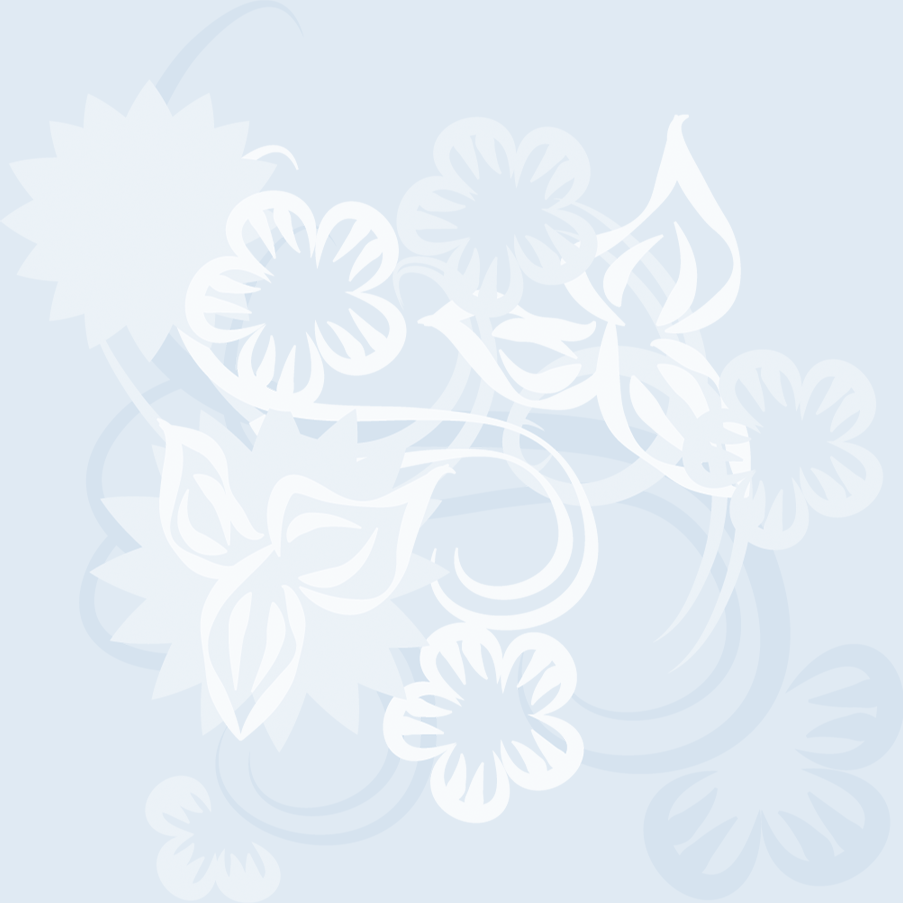
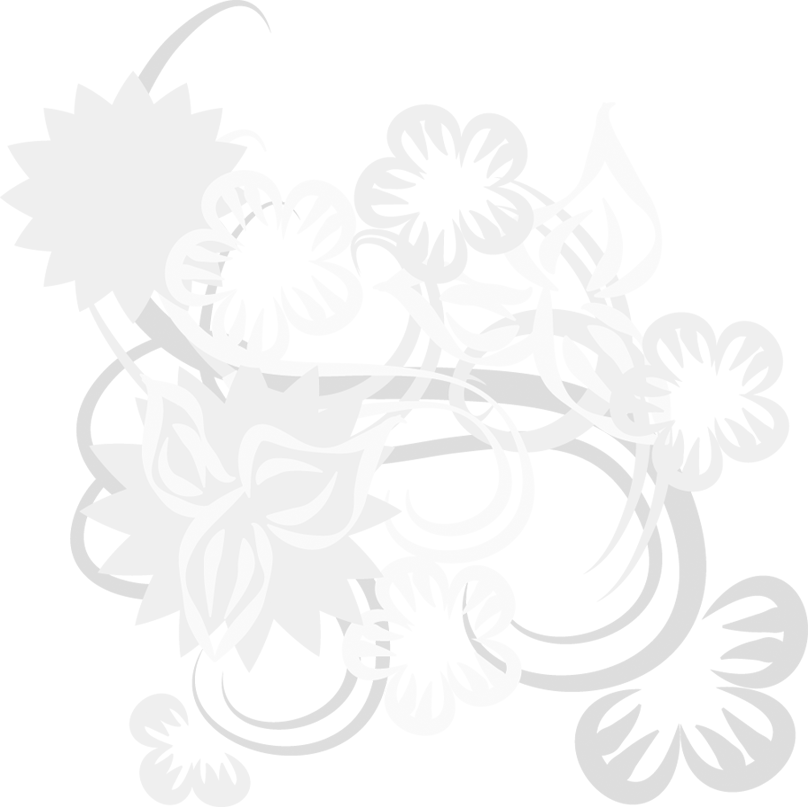
Redesigned the color scheme from one blue to five different colors
- Added new design elements for the new color schemes: grey for the
front page, yellow for activities, green for tales, blue for rhymes and
red for songs.
- Implemented the grey color scheme for the front page

diff --git a/css/desktop.css b/css/desktop.css
@@ -1,12 +1,9 @@
 @import url("reset.css");
 
 body {
-	background-image: url(../images/decor-circlemenu.png);
-	background-position: -50px -200px;
-	background-repeat: no-repeat;
+	background: #f2f3f3 url(../images/decor-circlemenu.png) -50px -200px no-repeat;
 	font-family: 'Open Sans', sans-serif;
 	line-height: 1.2;
-	background-color: #e0eaf3;
 	padding-bottom: 40px;
 }
 
@@ -19,6 +16,7 @@ header {
 	background-repeat: repeat-x;
 	height: 66px;
 	padding-top: 20px;
+	background-color: #575757;
 }
 
 header a {
@@ -122,9 +120,10 @@ em {
 }
 
 #page {
-	background-image: url(../images/decor-bottom.png), url(../images/page-bg.png);
-	background-repeat: no-repeat, repeat;
-	background-position: bottom right, top left;
+	background-color: #575757;
+	background-image: url(../images/decor-bottom.png);
+	background-repeat: no-repeat;
+	background-position: bottom right;
 	position: relative;
 	z-index: 2;
 }
@@ -289,7 +288,7 @@ section.category a {
 }
 
 section.category a:hover {
-	background-color: rgba(132, 186, 88, .5);
+	background-color: rgba(0, 0, 0, .5);
 }
 
 body.category section.category article {
@@ -350,7 +349,7 @@ footer {
 }
 
 footer a {
-	color: #4781b2;
+	color: #000;
 	text-decoration: none;
 	margin-right: 20px;
 	font-size: 25px;

diff --git a/css/tablet.css b/css/tablet.css
@@ -6,7 +6,7 @@ body {
 	background-repeat: no-repeat;
 	font-family: 'Open Sans', sans-serif;
 	line-height: 1.2;
-	background-color: #e0eaf3;
+	background-color: #f2f3f3;
 	padding-bottom: 40px;
 }
 
@@ -15,6 +15,7 @@ body.home {
 }
 
 header {
+	background-color: #575757;
 	background-image: url(../images/tablet-menu-header.png);
 	background-repeat: repeat-x;
 	height: 51px;
@@ -121,9 +122,10 @@ em {
 }
 
 #page {
-	background-image: url(../images/decor-bottom.png), url(../images/page-bg.png);
-	background-repeat: no-repeat, repeat;
-	background-position: bottom right, top left;
+	background-color: #575757;
+	background-image: url(../images/decor-bottom.png);
+	background-repeat: no-repeat;
+	background-position: bottom right;
 	position: relative;
 	z-index: 2;
 }
@@ -292,7 +294,7 @@ body.category section.category {
 }
 
 section.category a:hover {
-	background-color: rgba(132, 186, 88, 0.5);
+	background-color: rgba(0, 0, 0, .5);
 }
 
 body.category section.category article {
@@ -358,7 +360,7 @@ footer {
 }
 
 footer a {
-	color: #4781b2;
+	color: #000;
 	text-decoration: none;
 	margin-right: 20px;
 	font-size: 25px;

diff --git a/css/phone.css b/css/phone.css
@@ -1,7 +1,7 @@
 @import url("reset.css");
 
 body {
-	background-color: #e0eaf3;
+	background-color: #f2f3f3;
 	font-family: 'Open Sans', sans-serif;
 	line-height: 1.2;
 }
@@ -61,9 +61,10 @@ em {
 }
 
 #page {
-	background-image: url(../images/decor-bottom.png), url(../images/page-bg.png);
-	background-repeat: no-repeat, repeat;
-	background-position: bottom right, top left;
+	background-color: #575757;
+	background-image: url(../images/decor-bottom.png);
+	background-repeat: no-repeat;
+	background-position: bottom right;
 	position: relative;
 	z-index: 2;
 	margin-top: 20px;
@@ -205,7 +206,7 @@ section.category a {
 }
 
 section.category a:hover {
-	background-color: rgba(132, 186, 88, 0.5);
+	background-color: rgba(0, 0, 0, .5);
 }
 
 .home #content .post-ratings ol,
@@ -253,7 +254,7 @@ footer {
 }
 
 footer a {
-	color: #4781b2;
+	color: #000;
 	text-decoration: none;
 	font-size: 20px;
 	font-family: 'Finger Paint', cursive;
